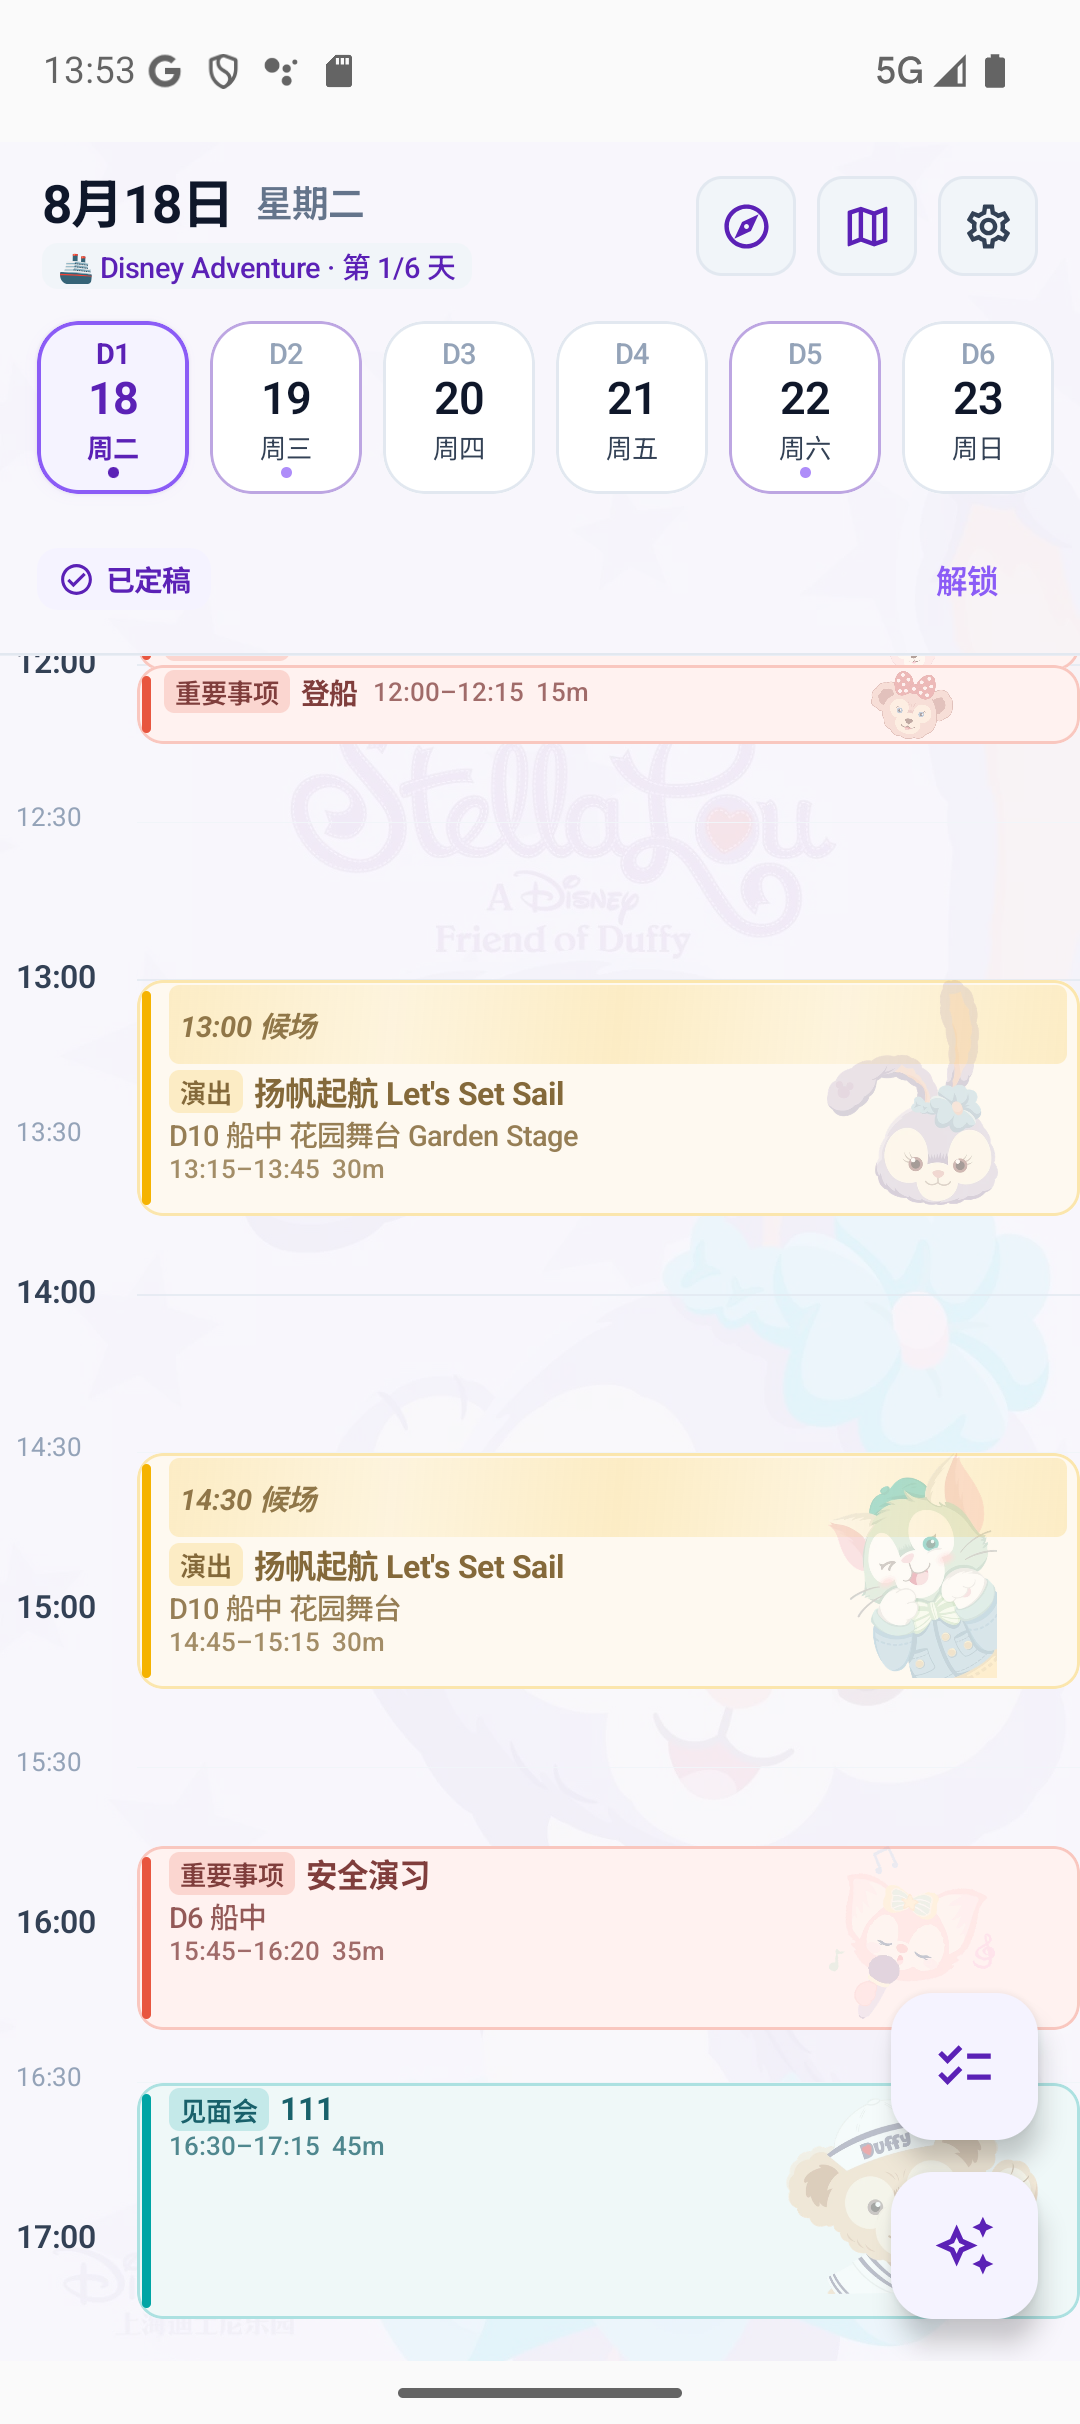
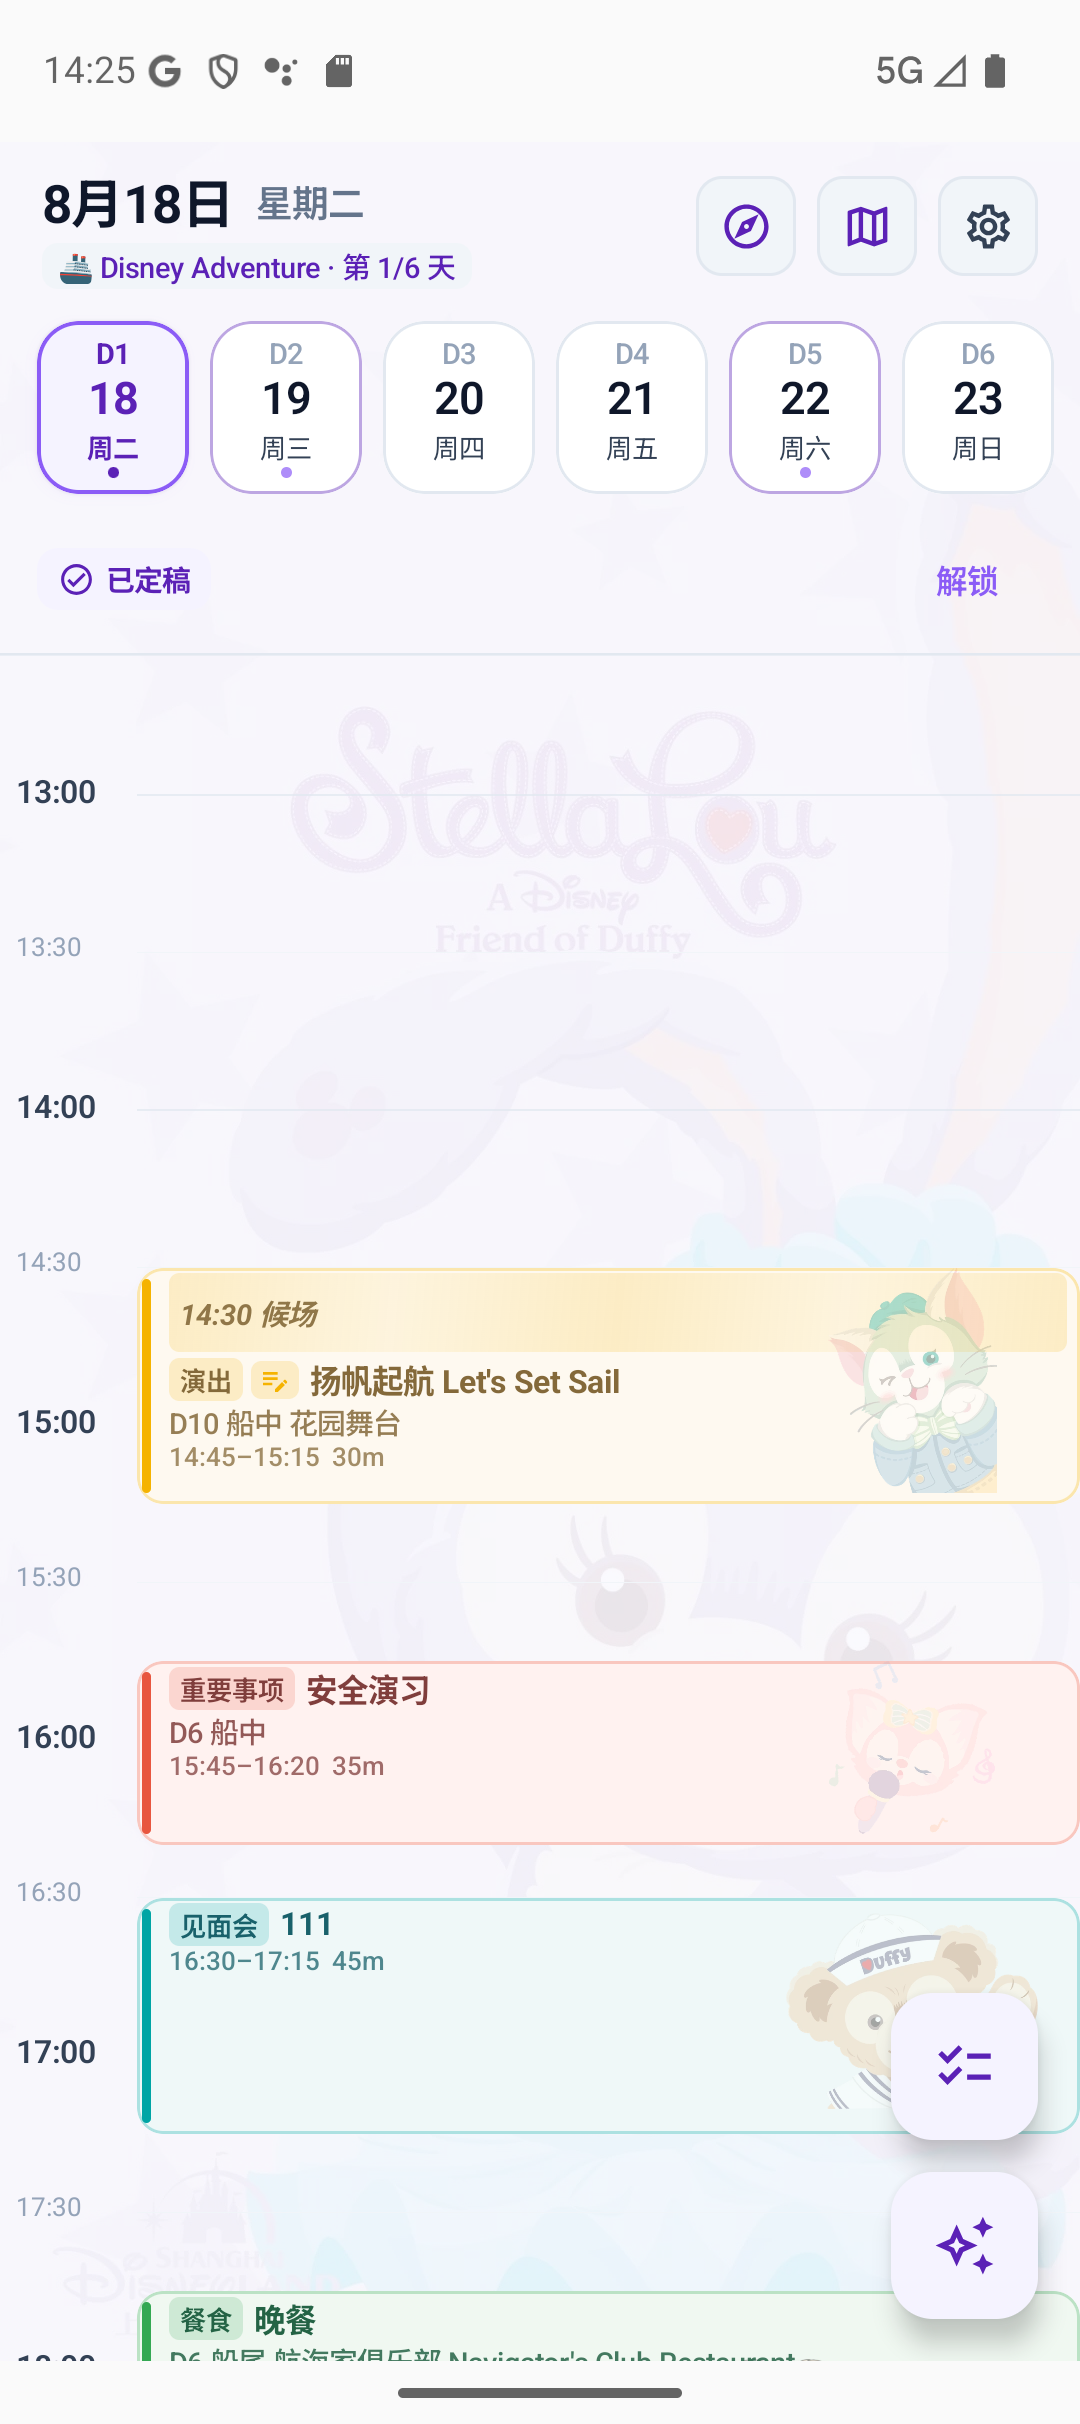
chore: bump version to 1.10.20 (46) and add verification screenshots

diff --git a/app/src/main/java/com/cruise/assistant/ui/timeline/EventCard.kt b/app/src/main/java/com/cruise/assistant/ui/timeline/EventCard.kt
@@ -43,6 +43,7 @@ import androidx.compose.ui.text.style.TextOverflow
 import androidx.compose.ui.unit.Dp
 import androidx.compose.ui.unit.TextUnit
 import androidx.compose.ui.unit.dp
+import androidx.compose.ui.unit.isSpecified
 import androidx.compose.ui.unit.sp
 import com.cruise.assistant.domain.Category
 import com.cruise.assistant.domain.CruiseEvent
@@ -92,13 +93,17 @@ fun EventCard(
     // 贪心分级：本体剩余高度决定信息分配（tier 0 = 无候场段，走原有逻辑）
     val bodyHeightDp = heightDp - waitSegmentHeightDp - 2.dp
     val labelSmall = MaterialTheme.typography.labelSmall
-    val labelLineHeight = labelSmall.lineHeight.takeIf { it != TextUnit.Unspecified }
-        ?: (labelSmall.fontSize * 1.25f)
-    val waitTwoLineMinDp = with(LocalDensity.current) {
-        (labelLineHeight * 2).toDp() + 4.dp
+    val labelLineHeightSp = if (labelSmall.lineHeight.isSpecified) {
+        labelSmall.lineHeight.value
+    } else {
+        labelSmall.fontSize.value * 1.25f
     }
-    val waitThreeLineMinDp = with(LocalDensity.current) {
-        (labelLineHeight * 3).toDp() + 6.dp
+    val density = LocalDensity.current
+    val waitTwoLineMinDp = with(density) {
+        (labelLineHeightSp * 2).sp.toDp() + 4.dp
+    }
+    val waitThreeLineMinDp = with(density) {
+        (labelLineHeightSp * 3).sp.toDp() + 6.dp
     }
     val waitLines = when {
         waitSegmentHeightDp >= waitThreeLineMinDp -> 3
@@ -551,11 +556,11 @@ private fun ConflictBadge() {
 }
 
 @Composable
-private fun NoteIndicator(colorArgb: Int, modifier: Modifier = Modifier) {
+private fun NoteIndicator(colorArgb: Int) {
     Surface(
         shape = RoundedCornerShape(4.dp),
         color = Color(colorArgb).copy(alpha = 0.18f),
-        modifier = modifier.padding(start = 3.dp),
+        modifier = Modifier.padding(start = 3.dp),
     ) {
         Box(
             modifier = Modifier.padding(horizontal = 3.dp, vertical = 1.dp),

diff --git a/docs/superpowers/plans/2026-08-24-note-lane-preservation-and-ui-v1.10.20.md b/docs/superpowers/plans/2026-08-24-note-lane-preservation-and-ui-v1.10.20.md
@@ -27,10 +27,10 @@
 - Consumes: `eventDao.getById(id)`
 - Produces: Preserved `target.lane` during event updates when time is unchanged
 
-- [ ] **Step 1: Update `EventSheetViewModel.kt`**
+- [x] **Step 1: Update `EventSheetViewModel.kt`**
 Add `val lane: Int = 0` to `EventSheetState`. In `openForEdit(event)`, set `lane = event.lane`. In `save()`, pass `lane = s.lane` to `CruiseEvent`.
 
-- [ ] **Step 2: Update `EventRepository.kt`**
+- [x] **Step 2: Update `EventRepository.kt`**
 In `updateEvent(event, scope)`:
 ```kotlin
         val groupId = event.recurrenceGroupId
@@ -46,11 +46,11 @@ In `updateEvent(event, scope)`:
         }
 ```
 
-- [ ] **Step 3: Run unit tests**
+- [x] **Step 3: Run unit tests**
 Run: `.\gradlew.bat testDebugUnitTest`
 Expected: PASS
 
-- [ ] **Step 4: Commit changes**
+- [x] **Step 4: Commit changes**
 
 ```bash
 git add app/src/main/java/com/cruise/assistant/data/repo/EventRepository.kt app/src/main/java/com/cruise/assistant/ui/event/EventSheetViewModel.kt
@@ -68,7 +68,7 @@ git commit -m "fix(repo): preserve existing lane when updating event without tim
 - Consumes: `event.note: String?`
 - Produces: Polished note card with pastel circular icon badge, clean typography, and subtle border
 
-- [ ] **Step 1: Update note card styling in `EventDetailDialog.kt`**
+- [x] **Step 1: Update note card styling in `EventDetailDialog.kt`**
 ```kotlin
                     if (!event.note.isNullOrBlank()) {
                         Spacer(Modifier.height(12.dp))
@@ -119,11 +119,11 @@ git commit -m "fix(repo): preserve existing lane when updating event without tim
                     }
 ```
 
-- [ ] **Step 2: Verify compilation and tests**
+- [x] **Step 2: Verify compilation and tests**
 Run: `.\gradlew.bat testDebugUnitTest`
 Expected: PASS
 
-- [ ] **Step 3: Commit changes**
+- [x] **Step 3: Commit changes**
 
 ```bash
 git add app/src/main/java/com/cruise/assistant/ui/timeline/EventDetailDialog.kt
@@ -141,7 +141,7 @@ git commit -m "style(ui): redesign EventDetailDialog note card with pastel badge
 - Consumes: `event.note: String?`
 - Produces: NoteIndicator micro-badge rendered next to CategoryChip
 
-- [ ] **Step 1: Add `NoteIndicator` composable in `EventCard.kt`**
+- [x] **Step 1: Add `NoteIndicator` composable in `EventCard.kt`**
 ```kotlin
 @Composable
 private fun NoteIndicator(colorArgb: Int, modifier: Modifier = Modifier) {
@@ -165,17 +165,17 @@ private fun NoteIndicator(colorArgb: Int, modifier: Modifier = Modifier) {
 }
 ```
 
-- [ ] **Step 2: Render `NoteIndicator` next to `CategoryChip` across all card variants**
+- [x] **Step 2: Render `NoteIndicator` next to `CategoryChip` across all card variants**
 In `EventCard.kt`:
 - Finalized compact row: after `CategoryChip`, if `!event.note.isNullOrBlank()`, call `NoteIndicator(colorArgb)`.
 - Standard 3-line row: after `CategoryChip`, if `!event.note.isNullOrBlank()`, call `NoteIndicator(colorArgb)`.
 - Multi-line wait segment rows: after `CategoryChip`, if `!event.note.isNullOrBlank()`, call `NoteIndicator(colorArgb)`.
 
-- [ ] **Step 3: Run unit tests**
+- [x] **Step 3: Run unit tests**
 Run: `.\gradlew.bat testDebugUnitTest`
 Expected: PASS
 
-- [ ] **Step 4: Commit changes**
+- [x] **Step 4: Commit changes**
 
 ```bash
 git add app/src/main/java/com/cruise/assistant/ui/timeline/EventCard.kt
@@ -190,19 +190,19 @@ git commit -m "feat(ui): add note indicator badge next to category chip on event
 - Modify: `app/build.gradle.kts`
 - Modify/Create: `人偶效果截图对比/`
 
-- [ ] **Step 1: Bump version in `app/build.gradle.kts`**
+- [x] **Step 1: Bump version in `app/build.gradle.kts`**
 Set `versionCode = 46`, `versionName = "1.10.20"`.
 
-- [ ] **Step 2: Build and install APK**
+- [x] **Step 2: Build and install APK**
 Run `assembleDebug` and install to running emulator.
 
-- [ ] **Step 3: Test on emulator and capture verification screenshots**
+- [x] **Step 3: Test on emulator and capture verification screenshots**
 - Verify lane preservation (edit show note in lane 1, verify it remains in lane 1 in draft view).
 - Verify note indicator on event card next to `[演出]`.
 - Verify redesigned note card in `EventDetailDialog`.
 - Save screenshots to `人偶效果截图对比/05_事件详情备注展示.png` and `人偶效果截图对比/01_定稿单栏_双人组合与单人点缀.png`.
 
-- [ ] **Step 4: Commit version bump and screenshots**
+- [x] **Step 4: Commit version bump and screenshots**
 
 ```bash
 git add app/build.gradle.kts 人偶效果截图对比/
